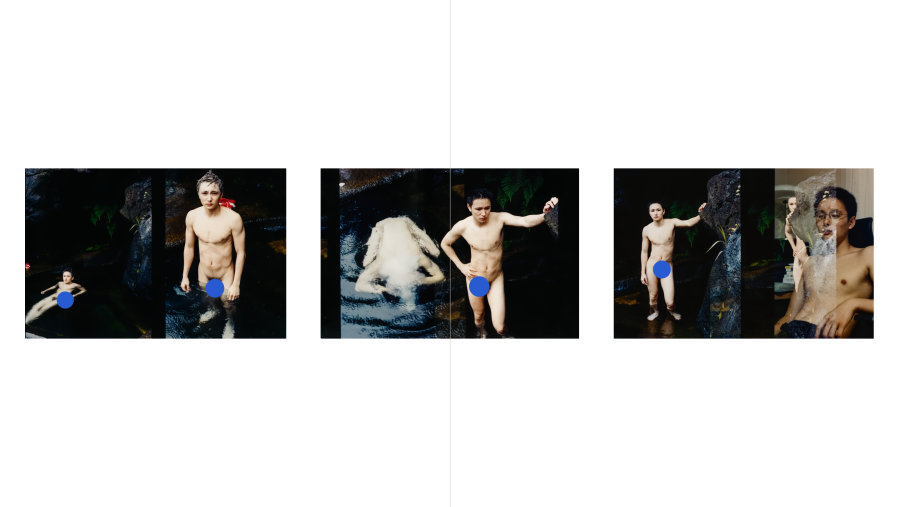
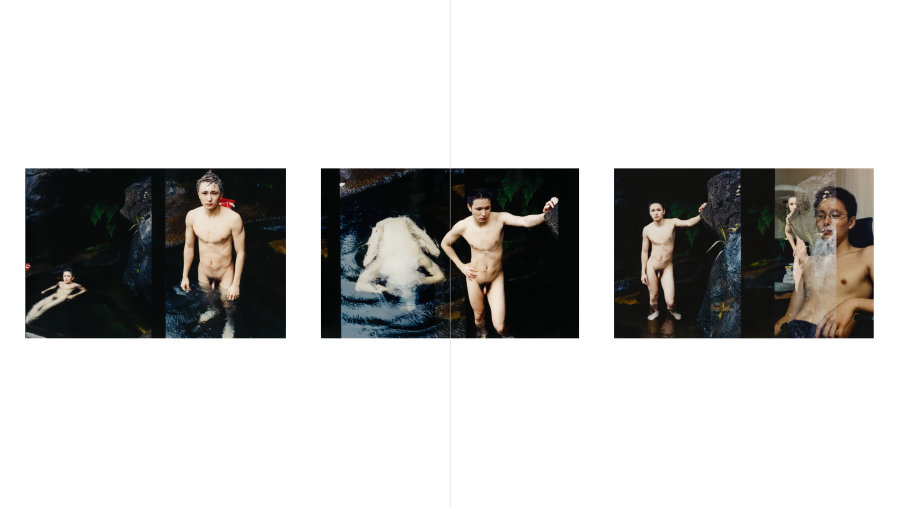
Swap selected Ieo-do frames to 꾸덕색_원본톤 for lighter contrast.

diff --git a/index.html b/index.html
@@ -42,7 +42,7 @@
   </head>
   <body class="main-page">
     <nav class="collection-nav" id="collection-nav">
-      <!-- collections.json?v=20261116gudeok 를 통해 자동으로 메뉴가 렌더링됩니다. -->
+      <!-- collections.json?v=20261116wonbon 를 통해 자동으로 메뉴가 렌더링됩니다. -->
     </nav>
 
     <header class="site-header">
@@ -151,7 +151,7 @@
         }
 
         try {
-          const res = await fetch("collections.json?v=20261116gudeok", { cache: "no-store" });
+          const res = await fetch("collections.json?v=20261116wonbon", { cache: "no-store" });
           if (!res.ok) return;
           const collections = await res.json();
           if (!Array.isArray(collections)) return;

diff --git a/collection.html b/collection.html
@@ -515,7 +515,7 @@
         const spreads = await loadBookSpreads(colId);
         const flat = [];
         const maxPages = 90;
-        const cacheVer = "20261116gudeok";
+        const cacheVer = "20261116wonbon";
 
         const clamp01 = (n, fallback) => {
           const v = Number(n);
